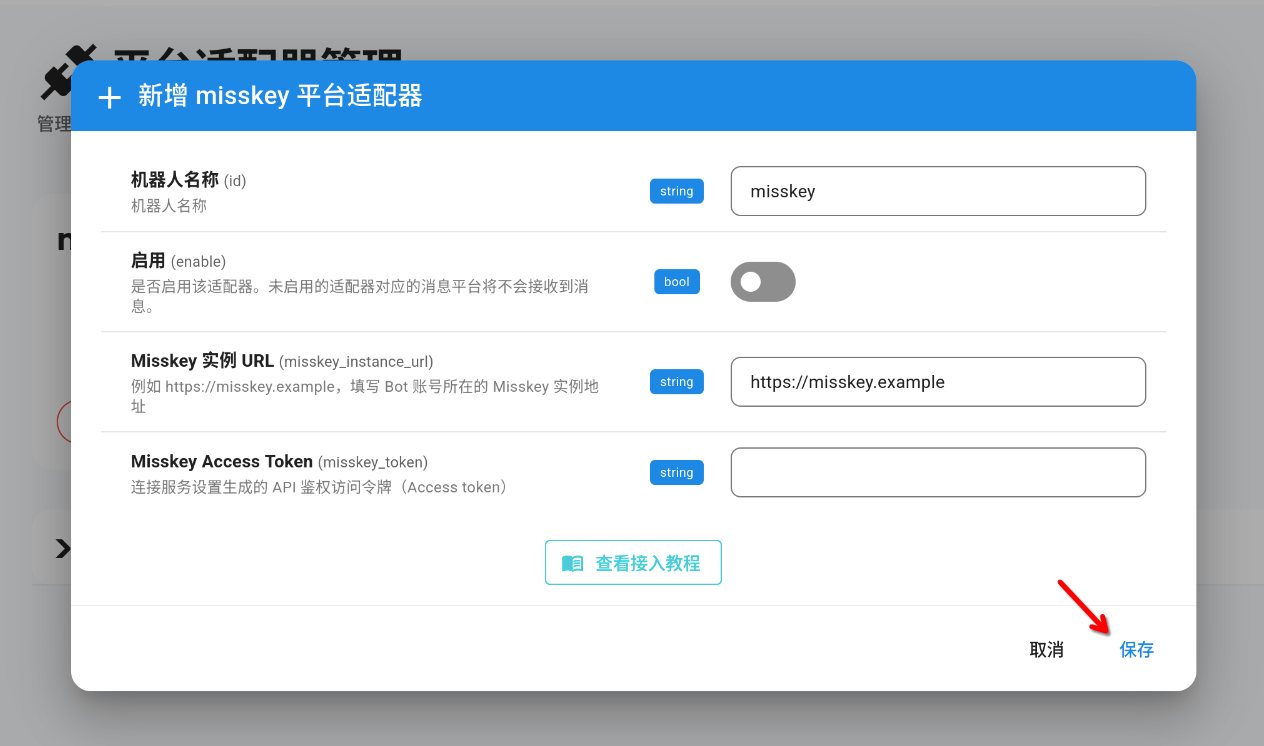
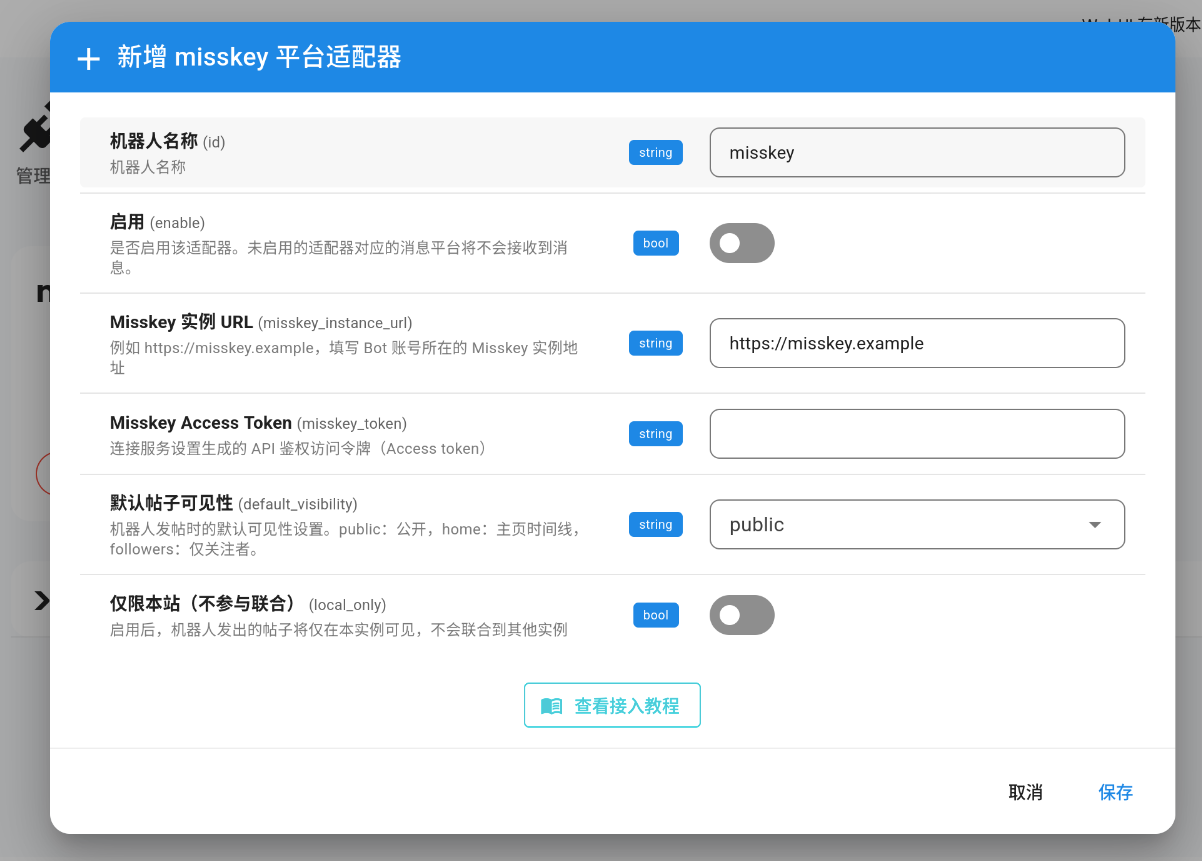
docs: 更新 Misskey 平台文档，添加默认帖子可见性和仅限本站设置说明

diff --git a/deploy/platform/misskey.md b/deploy/platform/misskey.md
@@ -12,7 +12,7 @@
 
 ## 配置平台适配器设置
 
-在 Astrbot Misskey 的平台适配器配置页，我们需要填写 Misskey 的接入信息并保存。
+在 Astrbot Misskey 的平台适配器配置页，我们需要填写 Misskey 的接入信息和配置适配器的部分行为。
 
 ::: tip 注意
 别忘了退出保存前先点击`启用`以启用 Misskey 平台配置器！
@@ -60,6 +60,20 @@
 5. 权限配置完成后，单击“完成”以查看账号访问令牌。把获取到的令牌复制并粘贴到 Astrbot 配置页面 Access Token 输入框内。
 
 ![查看账号令牌](../../source/images/misskey/pat-4.png)
+
+## 默认帖子可见性
+
+修改机器人发帖时的默认可见性
+
+| 名称 | 说明 |
+|---|---|---|
+| public | 任何人都可以看到 Bot 的帖子 |
+| home | 公开 Bot 帖子于实例主页时间线 |
+| followers | 只有关注了 Bot 账号的用户才能在主页时间线看到 Bot 帖子 |
+
+## 仅限本站（不参与联合）
+
+开启后，Bot 发送的所有帖子都不会参与 Fediverse 联合，非常适用于仅想在自己实例使用和传播 Bot 的帖子的需求。
 
 ## 测试成功性
 
